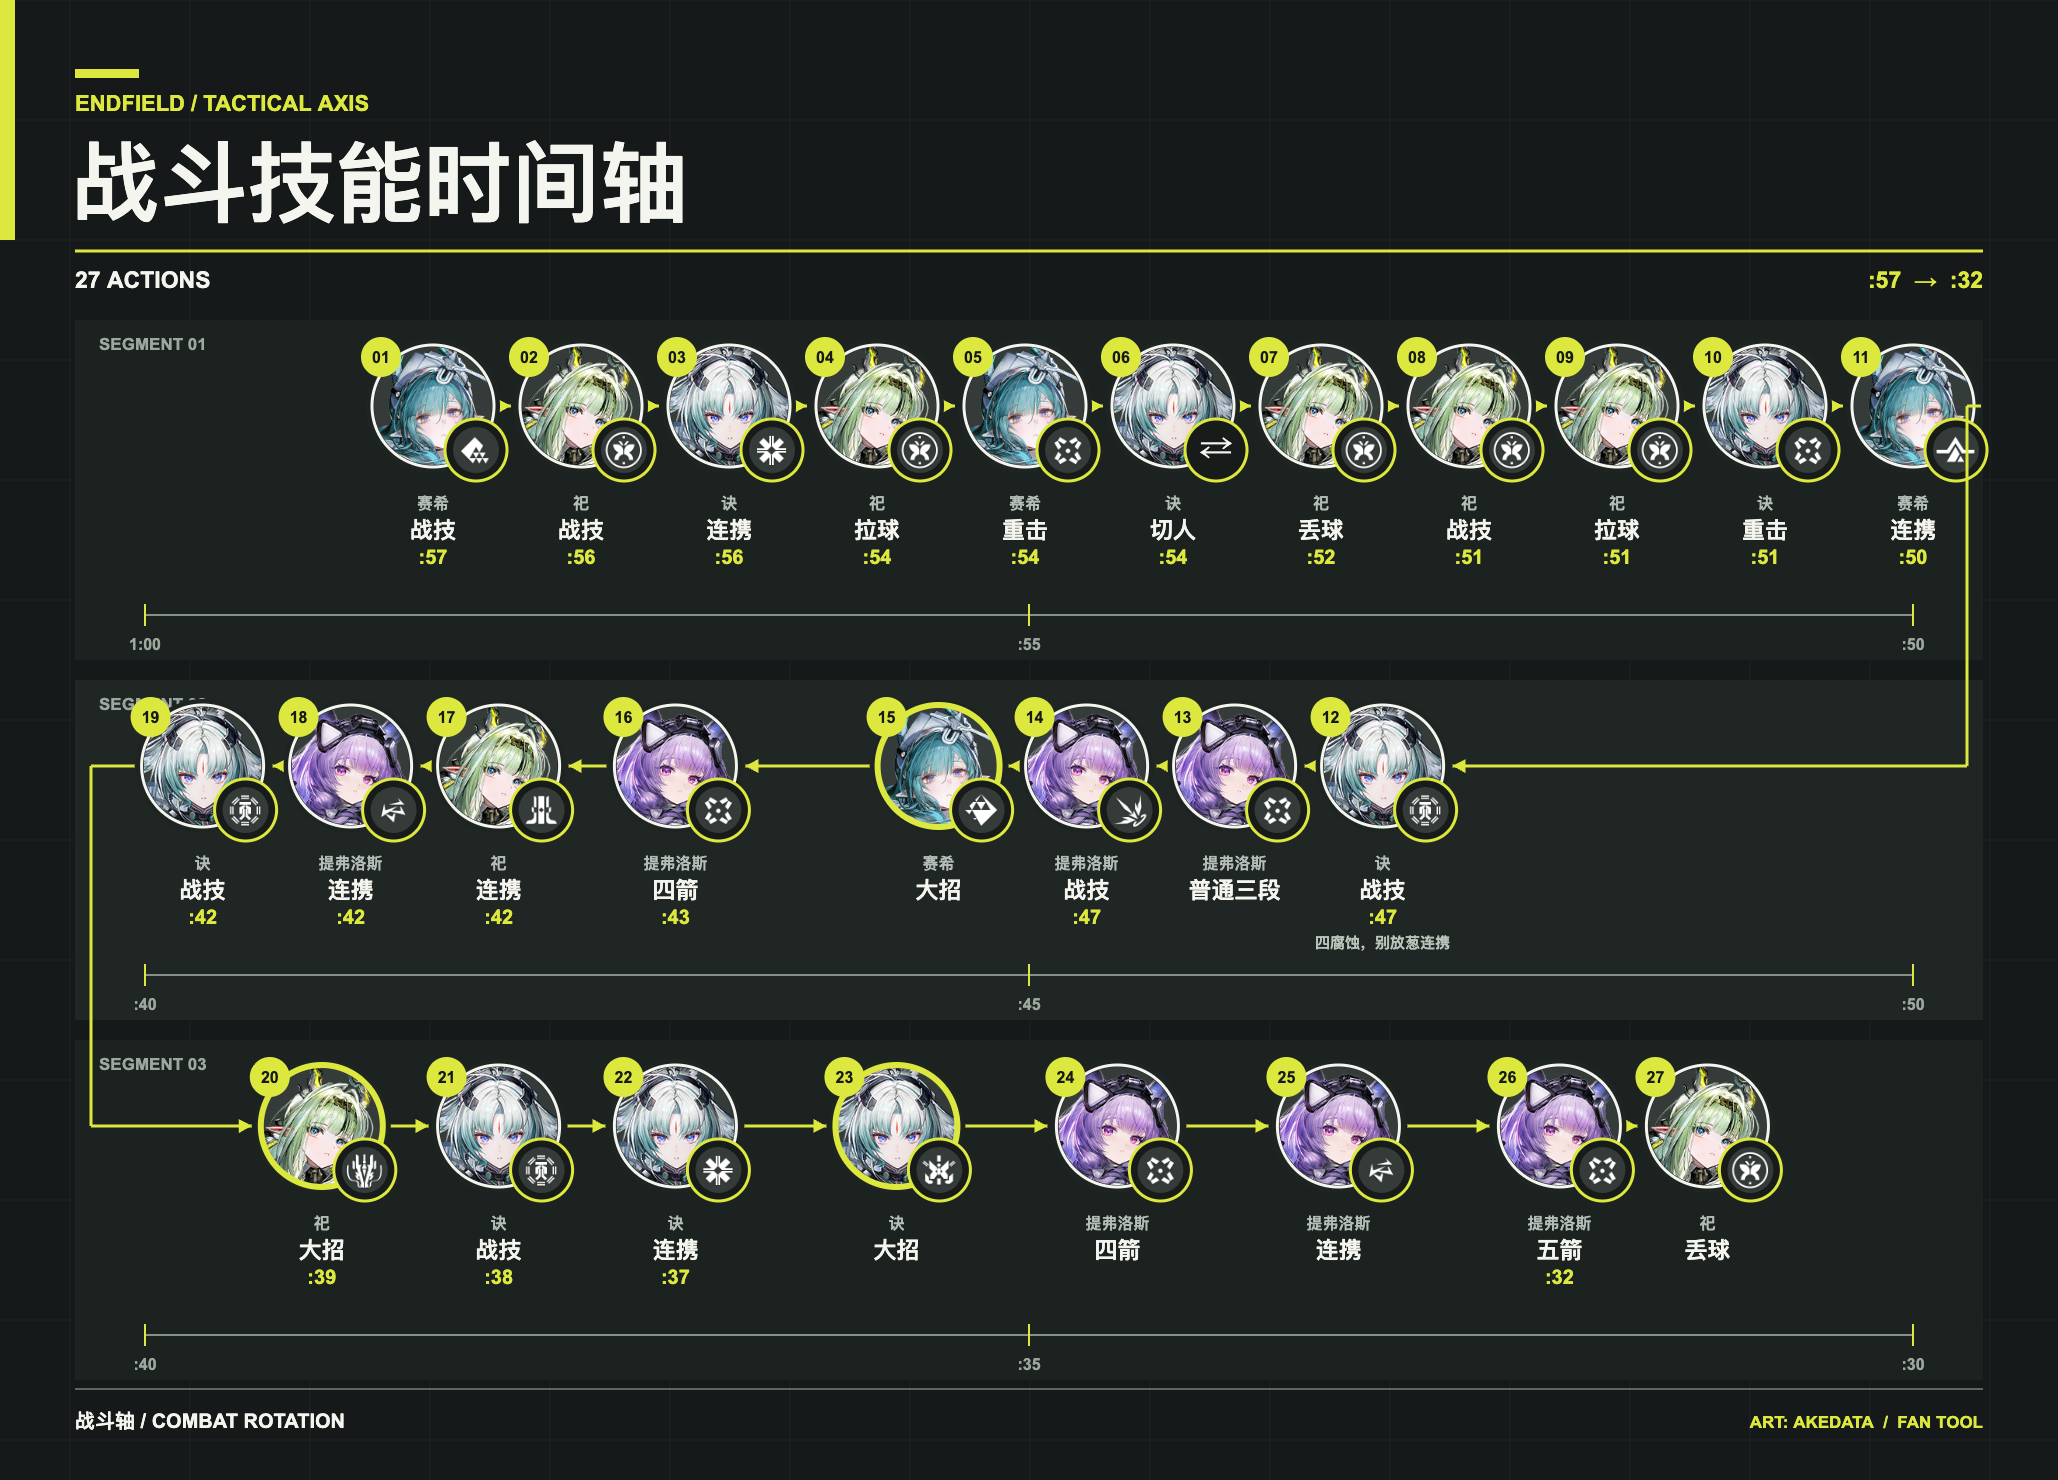
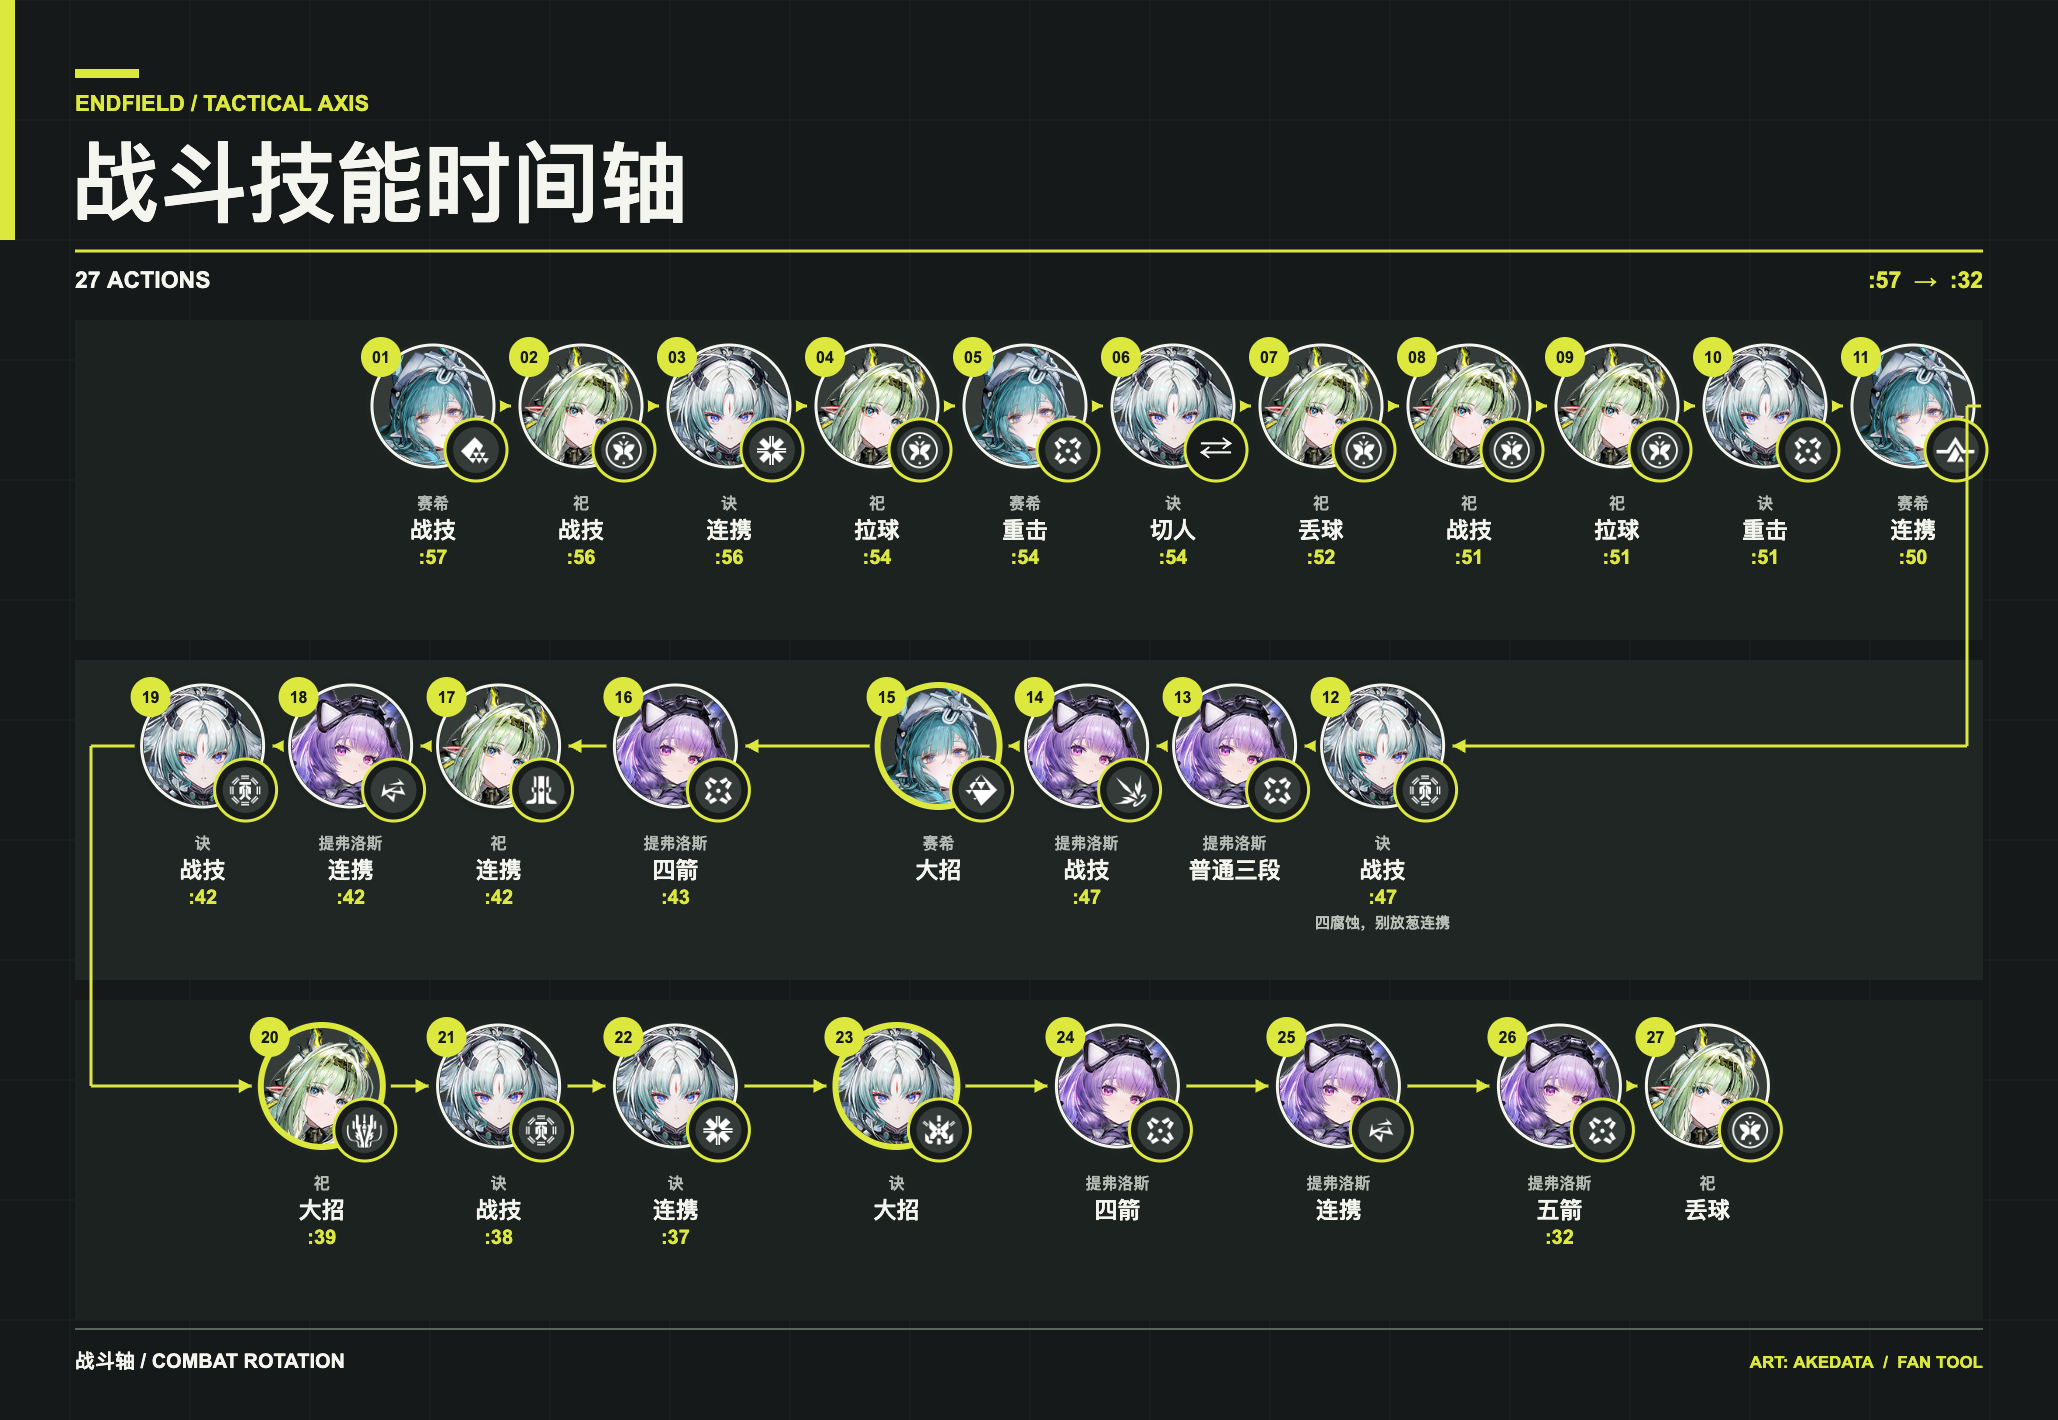
Remove redundant per-row timeline rulers

diff --git a/app.js b/app.js
@@ -162,7 +162,7 @@ function draw(steps) {
   steps.forEach(step => { const key = Math.floor(step.position / 10); counts.set(key, (counts.get(key) || 0) + 1); });
   const width = Math.max(1800, Math.max(...counts.values()) * 158 + 320);
   const lanes = layout(steps, width);
-  const height = 300 + lanes.length * 360 + 100;
+  const height = 300 + lanes.length * 340 + 100;
   canvas.width = width; canvas.height = height;
   ctx.fillStyle = '#151919'; ctx.fillRect(0, 0, width, height);
   for (let x = 70; x < width; x += 120) line(x, 0, x, height, '#ffffff0b', 1);
@@ -175,17 +175,9 @@ function draw(steps) {
   text(`${timeLabel(steps[0].position)}  →  ${timeLabel(steps.at(-1).position)}`, width - 75, 288, '800 23px Arial', '#dce83d', 'right');
   let previous = null;
   lanes.forEach((lane, row) => {
-    const top = 320 + row * 360, y = top + 86;
+    const top = 320 + row * 340, y = top + 86;
     const direction = row % 2 ? -1 : 1;
-    ctx.fillStyle = row % 2 ? '#202624' : '#1c2220'; ctx.fillRect(75, top, width - 150, 340);
-    text(`SEGMENT ${String(row + 1).padStart(2, '0')}`, 99, top + 30, '800 17px Arial', '#9ca79e');
-    const rail = top + 295;
-    line(145, rail, width - 145, rail, '#859087', 2);
-    for (let tick = 0; tick <= 10; tick += 5) {
-      const x = direction > 0 ? 145 + (width - 290) * tick / 10 : width - 145 - (width - 290) * tick / 10;
-      line(x, rail - 11, x, rail + 11, '#dce83d', 2);
-      text(timeLabel(lane.bucket * 10 + 10 - tick), x, rail + 35, '700 16px Arial', '#9ca79e', 'center');
-    }
+    ctx.fillStyle = row % 2 ? '#202624' : '#1c2220'; ctx.fillRect(75, top, width - 150, 320);
     if (previous && lane.nodes.length) {
       const routeX = row % 2 ? width - 91 : 91;
       line(previous.x + previous.direction * 68, previous.y, routeX, previous.y, '#dce83d', 3);
